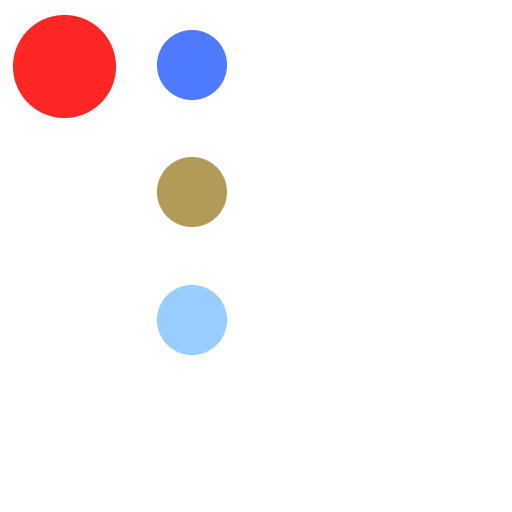
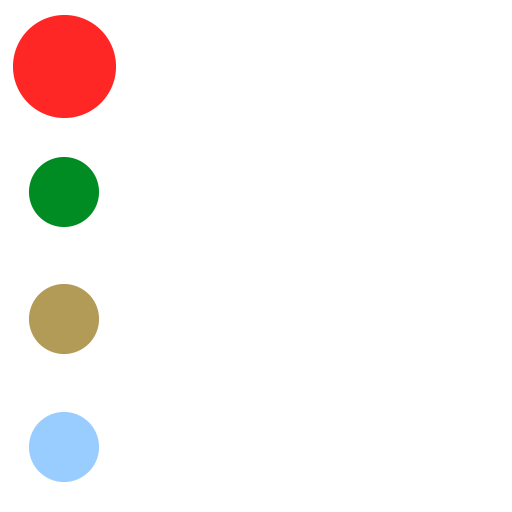
Added states for planets depending on distance.

diff --git a/src/entities.go b/src/entities.go
@@ -7,41 +7,59 @@ import (
 	"time"
 )
 
+type PlanetaryState int32
+
+const (
+	_                  = iota
+	Sun PlanetaryState = 1 << iota
+	Fertile
+	TooClose
+	TooFar
+)
+
+var PlanetaryAnimations = map[PlanetaryState][]int{
+	Sun:      []int{0},
+	Fertile:  []int{4},
+	TooClose: []int{8},
+	TooFar:   []int{12},
+}
+
 type PlanetaryBody struct {
 	*twodee.AnimatingEntity
 	Velocity twodee.Point
 	Mass     float32
+	State    PlanetaryState
 }
 
 func NewSun() *PlanetaryBody {
-	return &PlanetaryBody{
+	body := &PlanetaryBody{
 		AnimatingEntity: twodee.NewAnimatingEntity(
 			0, 0,
 			32.0/PxPerUnit, 32.0/PxPerUnit,
 			0,
 			twodee.Step10Hz,
-			[]int{
-				0,
-			},
+			[]int{0},
 		),
 		Mass: 1000.0,
 	}
+	body.SetState(Sun)
+	return body
 }
 
 func NewPlanet(x, y float32) *PlanetaryBody {
-	return &PlanetaryBody{
+	body := &PlanetaryBody{
 		AnimatingEntity: twodee.NewAnimatingEntity(
 			x, y,
 			32.0/PxPerUnit, 32.0/PxPerUnit,
 			0,
 			twodee.Step10Hz,
-			[]int{
-				1,
-			},
+			[]int{0},
 		),
 		Velocity: twodee.Pt(rand.Float32(), rand.Float32()),
-		Mass: 2000.0,
+		Mass:     2000.0,
 	}
+	body.SetState(Fertile)
+	return body
 }
 
 func (p *PlanetaryBody) MoveToward(sc twodee.Point) {
@@ -97,4 +115,25 @@ func (p *PlanetaryBody) Update(elapsed time.Duration) {
 	p.AnimatingEntity.Update(elapsed)
 	pos := p.Pos()
 	p.MoveTo(twodee.Pt(pos.X+p.Velocity.X, pos.Y+p.Velocity.Y))
+}
+
+func (p *PlanetaryBody) RemState(state PlanetaryState) {
+	p.SetState(p.State & ^state)
+}
+
+func (p *PlanetaryBody) AddState(state PlanetaryState) {
+	p.SetState(p.State | state)
+}
+
+func (p *PlanetaryBody) SwapState(rem, add PlanetaryState) {
+	p.SetState(p.State & ^rem | add)
+}
+
+func (p *PlanetaryBody) SetState(state PlanetaryState) {
+	if state != p.State {
+		p.State = state
+		if frames, ok := PlanetaryAnimations[p.State]; ok {
+			p.SetFrames(frames)
+		}
+	}
 }

diff --git a/src/simulation.go b/src/simulation.go
@@ -27,6 +27,15 @@ func (s *Simulation) Update(elapsed time.Duration) {
 	for _, p := range s.Planets {
 		p.GravitateToward(centroid)
 		p.Update(elapsed)
+		dist := p.Pos().DistanceTo(s.Sun.Pos())
+		switch {
+		case dist < 10:
+			p.SetState(TooClose)
+		case dist > 15:
+			p.SetState(TooFar)
+		default:
+			p.SetState(Fertile)
+		}
 	}
 }
 
